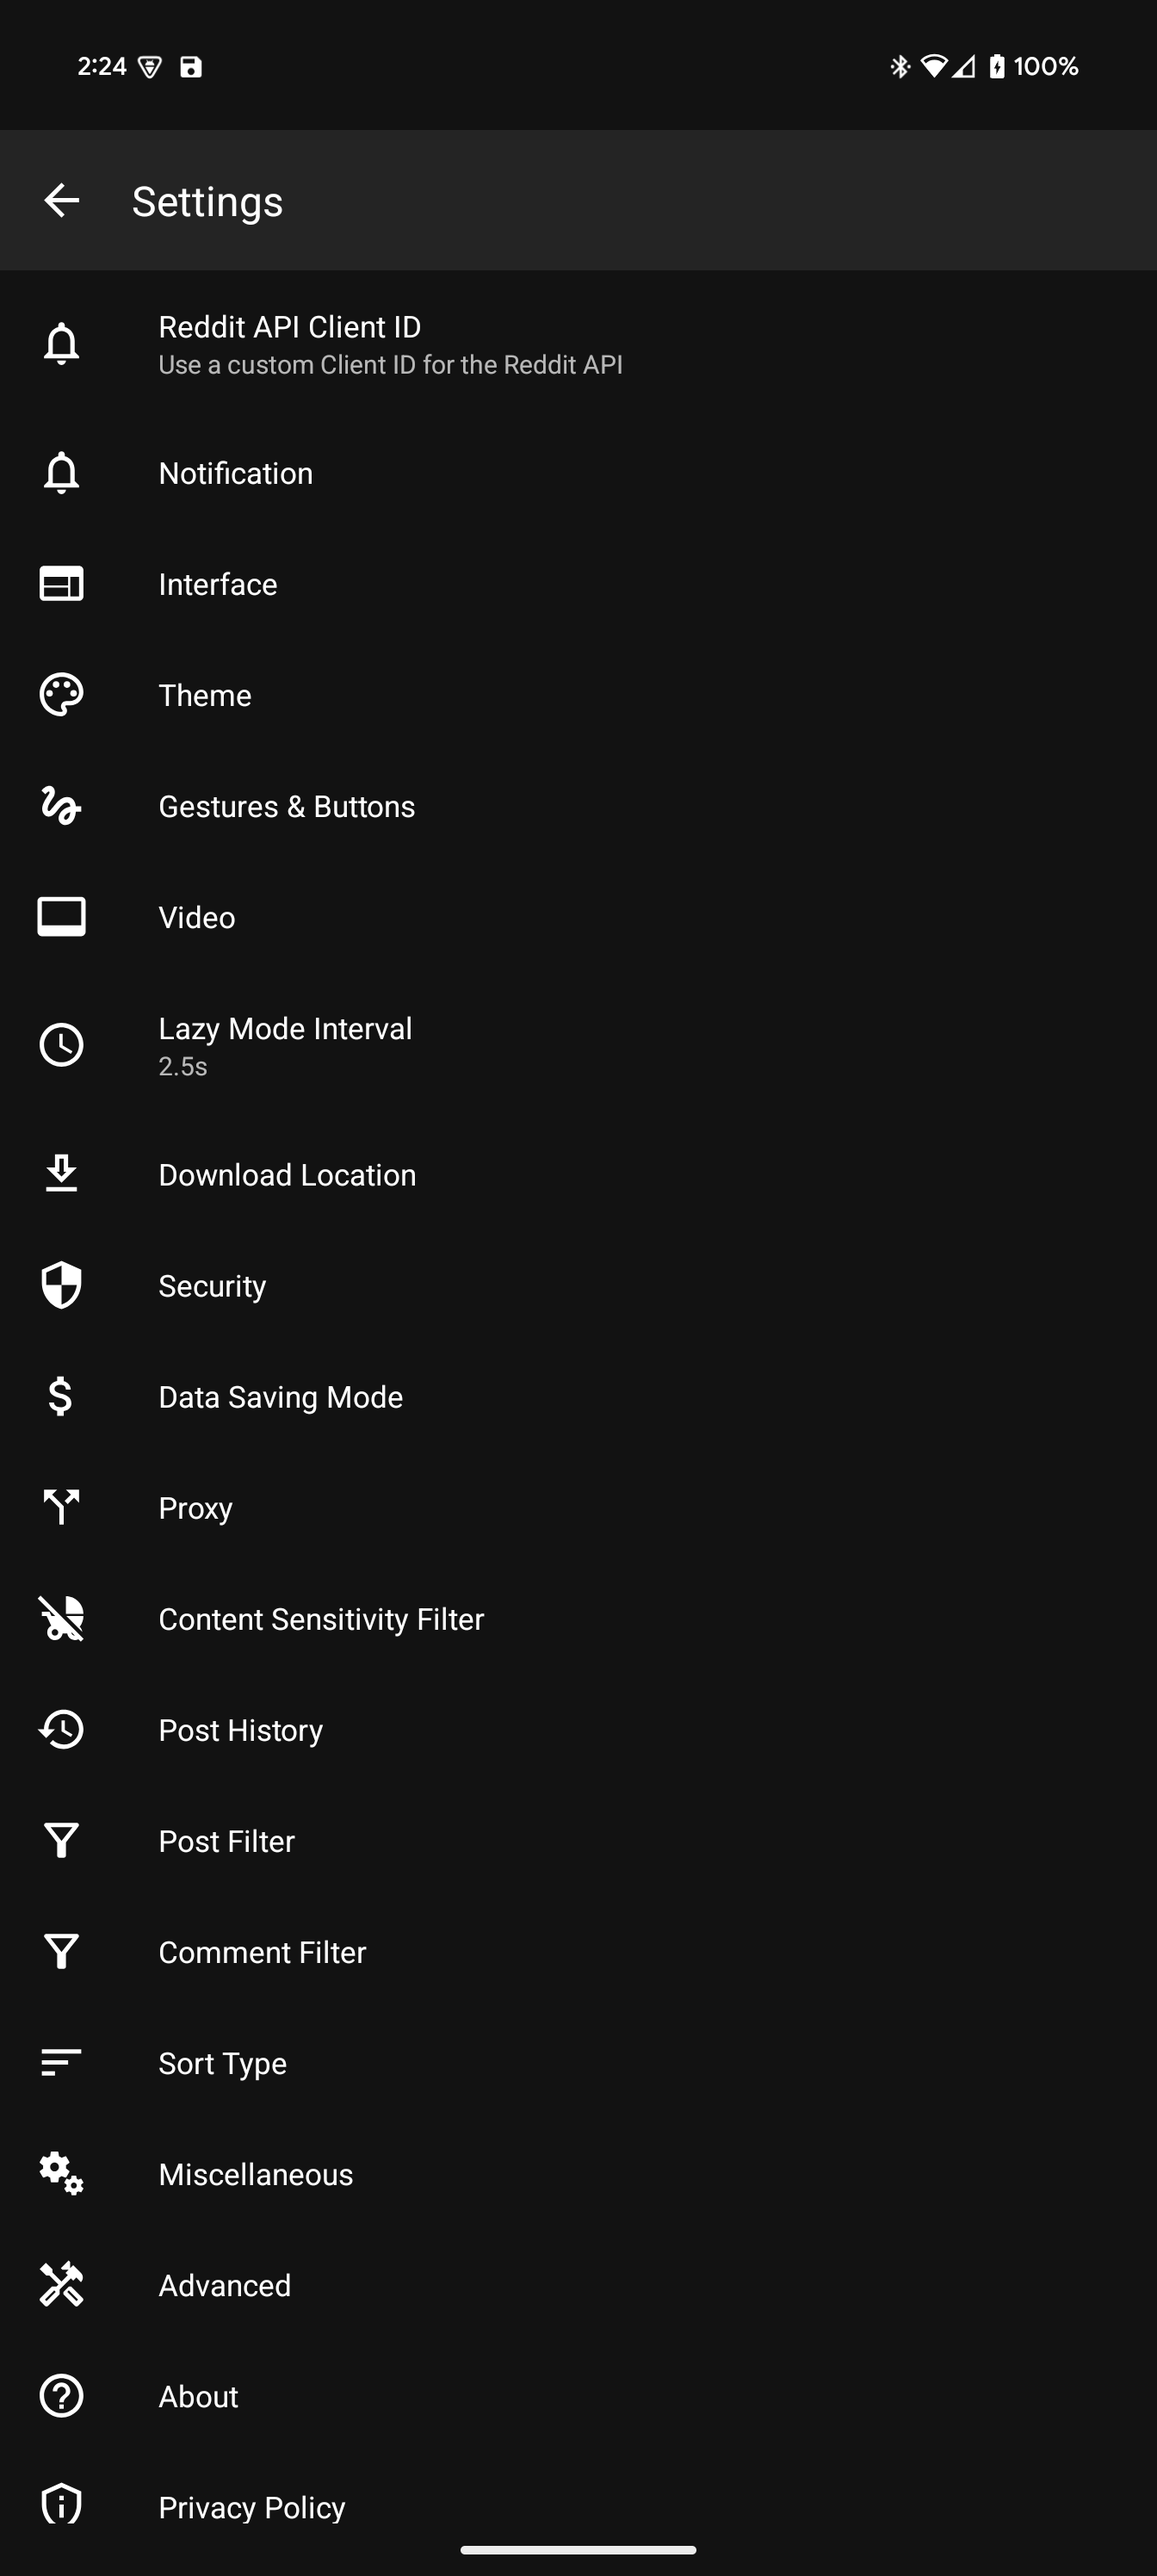
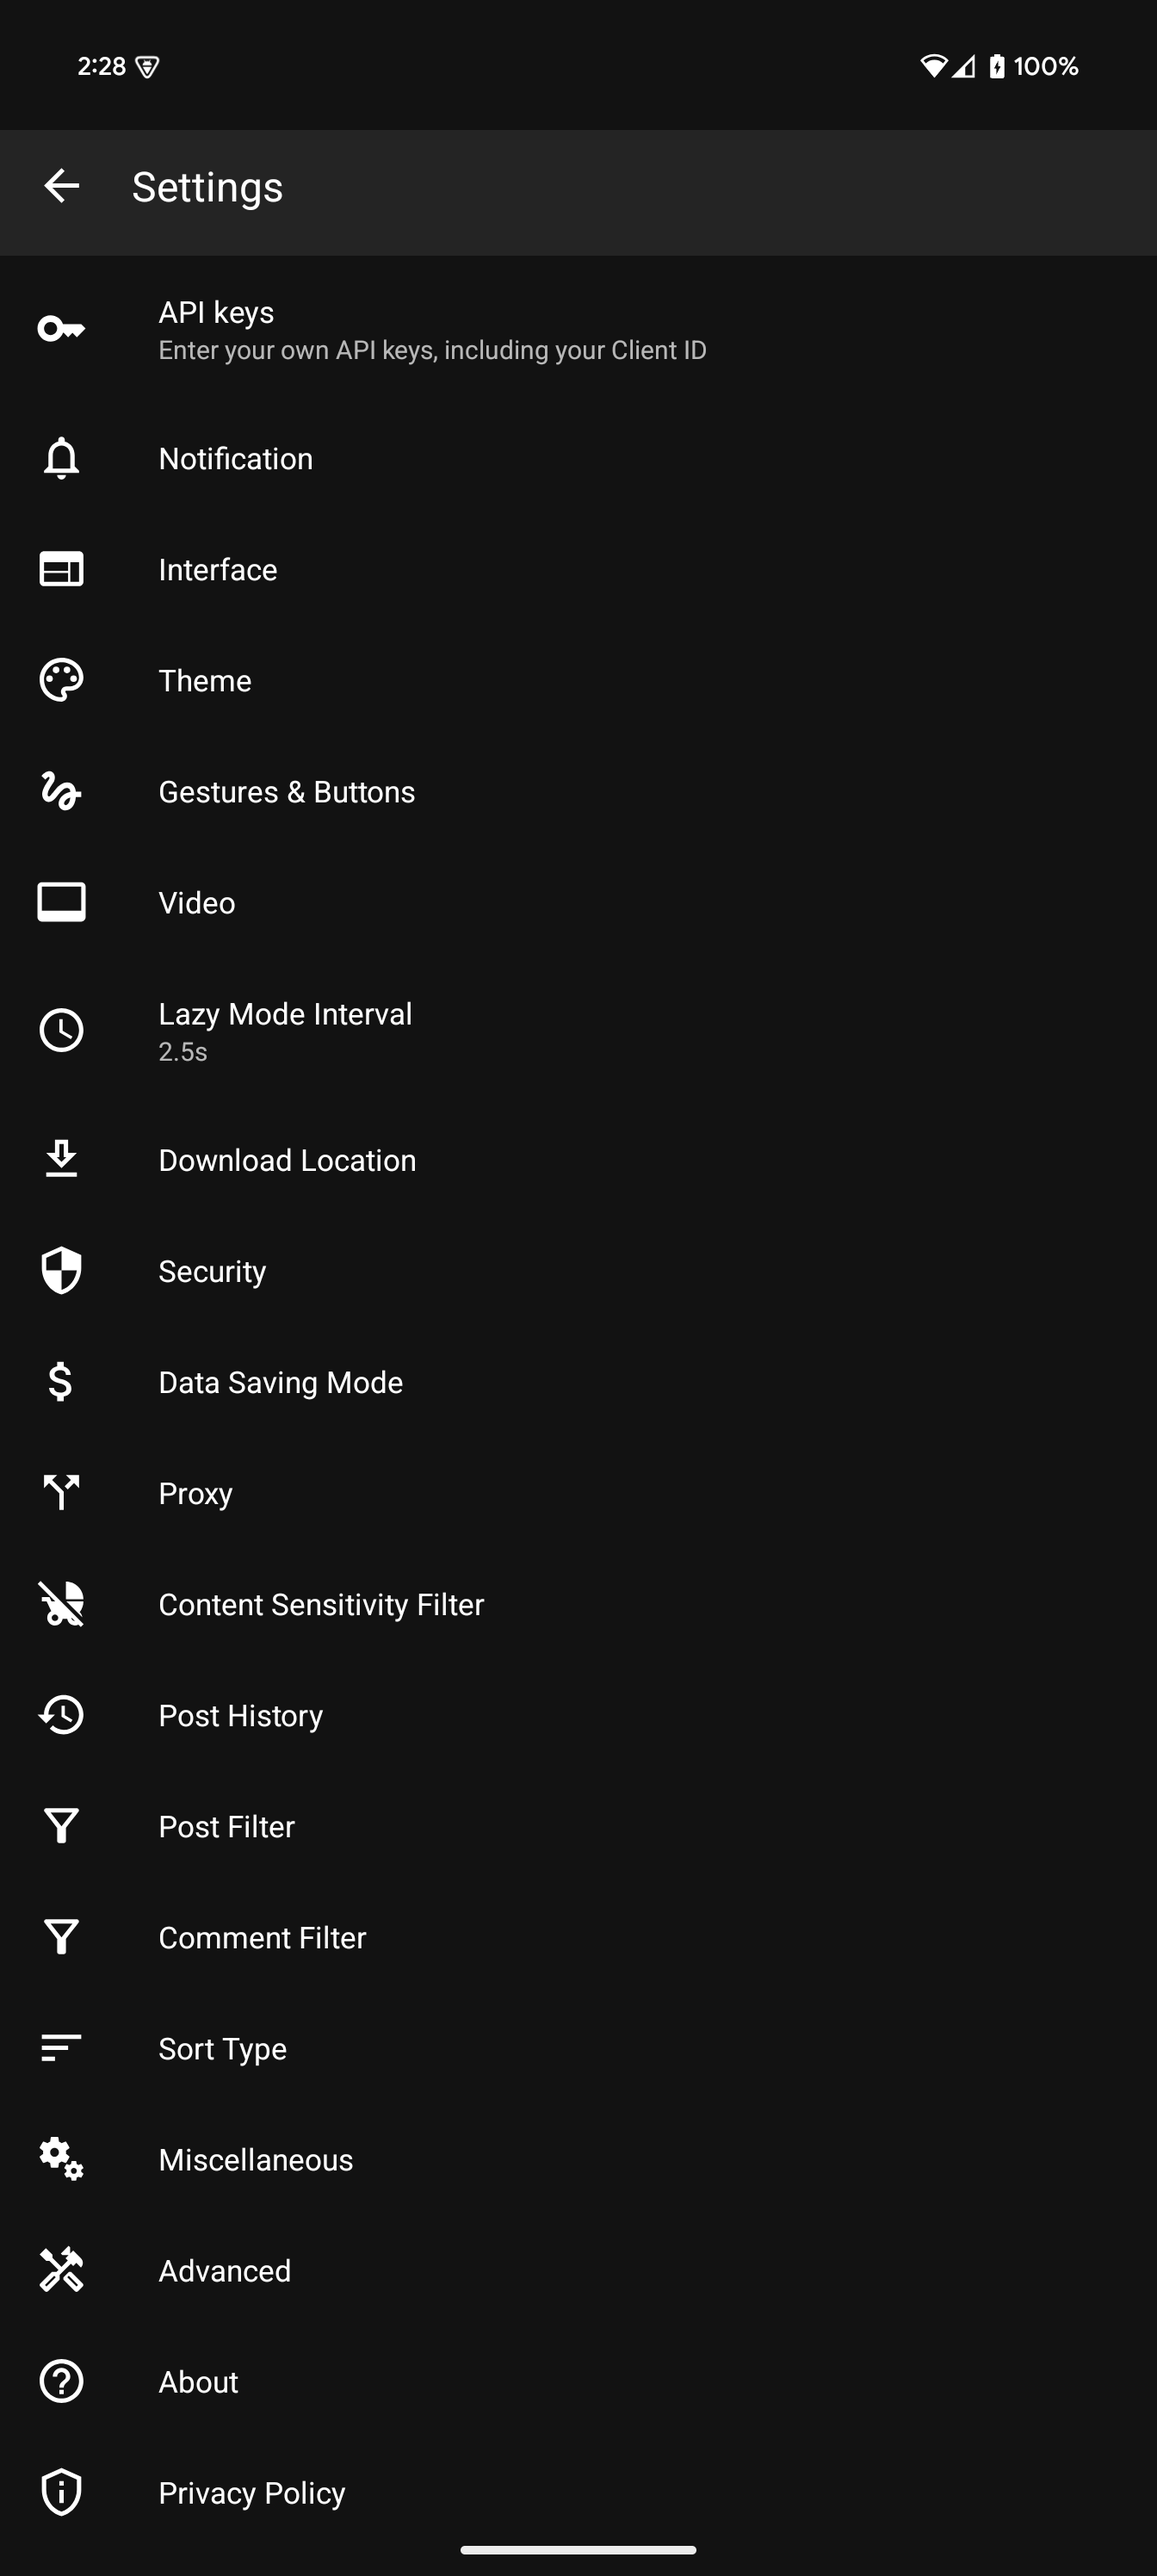
Added SETUP-old.md
Added mention of SETUP-old.md to SETUP.md

Added updated client id screenshots

diff --git a/SETUP-old.md b/SETUP-old.md
@@ -1,8 +1,4 @@
 # Setup
-
-## Setup for older versions
-See [SETUP-old.md](/SETUP0-old.md)
-
 ## Giphy
 See [here](/GIPHY.md).
 
@@ -44,9 +40,9 @@ first time the app is being set up.
 
 **Changing the Client ID:**
 1. Go to [`Settings in the side bar`](/screenshots/settings.png)
-1. Select [`Reddit API Client ID`](/screenshots/continuum_client_id1.png)
-2. Press [`Reddit API Client ID`](screenshots/continuum_client_id2.png)
-3. Enter your [Client ID](screenshots/enter_client_id.png). It is
+1. Select [`Reddit API Client ID`](/screenshots/continuum_client_id1-old.png)
+2. Press [`Reddit API Client ID`](screenshots/continuum_client_id2-old.png)
+3. Enter your [Client ID](screenshots/enter_client_id-old.png). It is
 best to copy and paste it.
 5. Press [`OK`](screenshots/post-saved_client_id_override.png)
 6. Wait for Continuum to restart
